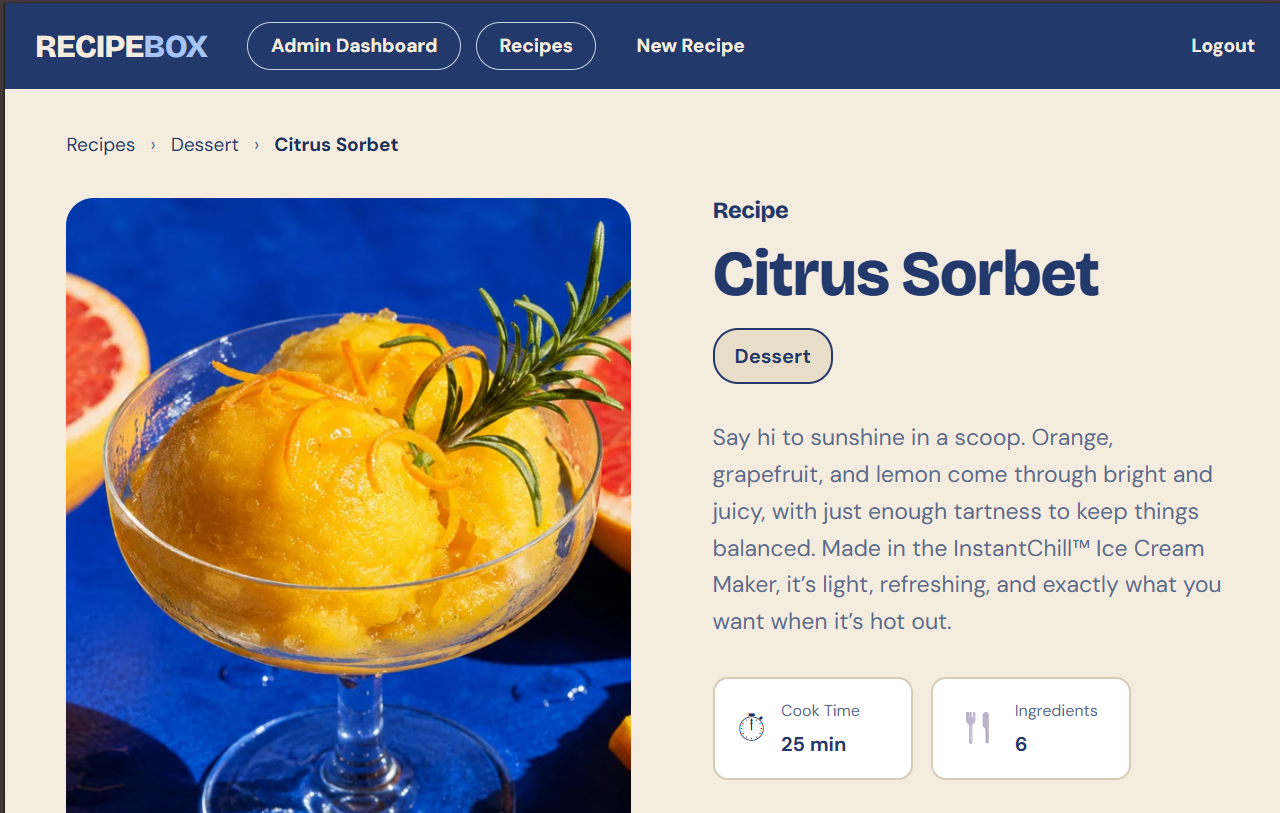
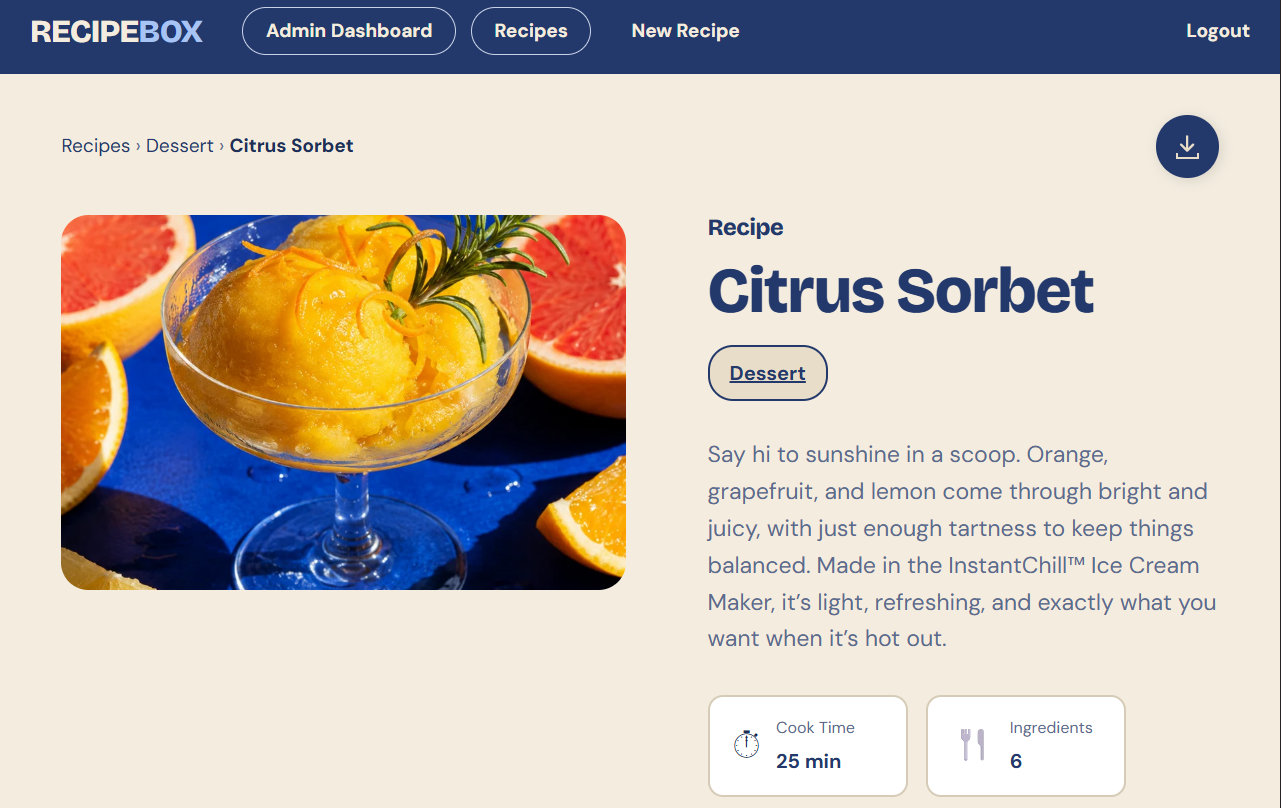
feat: add print button

diff --git a/public/css/style.css b/public/css/style.css
@@ -688,6 +688,7 @@ form[action="/recipe"] button[type="submit"] {
 
 .recipe-breadcrumb {
     display: flex;
+    justify-content: space-between;
     align-items: center;
     flex-wrap: wrap;
     gap: 12px;
@@ -1061,3 +1062,193 @@ form[action="/recipe"] button[type="submit"] {
     justify-content: center;
     padding-top: 3rem;
 }
+
+.Btn {
+  width: 50px;
+  height: 50px;
+  border: none;
+  border-radius: 50%;
+  background-color:var(--navy);
+  display: flex;
+  flex-direction: column;
+  align-items: center;
+  justify-content: center;
+  cursor: pointer;
+  position: relative;
+  transition-duration: .3s;
+  box-shadow: 2px 2px 10px rgba(0, 0, 0, 0.11);
+}
+
+.svgIcon {
+  fill:var(--butter)
+}
+
+.icon2 {
+  width: 18px;
+  height: 5px;
+  border-bottom: 2px solid var(--butter);
+  border-left: 2px solid var(--butter);
+  border-right: 2px solid var(--butter);
+}
+
+.tooltip {
+  position: absolute;
+  right: calc(100% + 12px);  opacity: 0;
+  background-color: rgb(12, 12, 12);
+  color: white;
+  padding: 5px 10px;
+  border-radius: 5px;
+  white-space: nowrap;  
+  display: flex;
+  align-items: center;
+  justify-content: center;
+  transition-duration: .2s;
+  pointer-events: none;
+  letter-spacing: 0.5px;
+}
+
+.tooltip::before {
+  position: absolute;
+  content: "";
+  width: 10px;
+  height: 10px;
+  background-color: rgb(12, 12, 12);
+  background-size: 1000%;
+  background-position: center;
+  transform: rotate(45deg);
+  right: -5%;
+  transition-duration: .3s;
+}
+.Btn:hover .tooltip {
+  opacity: 1;
+  transition-duration: .3s;
+}
+.Btn:hover {
+  background-color: var(--ink-soft);
+  transition-duration: .3s;
+}
+.Btn:hover .icon2 {
+  border-bottom: 2px solid rgb(235, 235, 235);
+  border-left: 2px solid rgb(235, 235, 235);
+  border-right: 2px solid rgb(235, 235, 235);
+}
+
+.Btn:hover .svgIcon {
+  fill: rgb(255, 255, 255);
+  animation: slide-in-top 0.6s cubic-bezier(0.250, 0.460, 0.450, 0.940) both;
+}
+
+@keyframes slide-in-top {
+  0% {
+    transform: translateY(-10px);
+    opacity: 0;
+  } 100% {
+    transform: translateY(0px);
+    opacity: 1;
+  }
+}
+
+/* ---------- PRINT ---------- */
+@media print {
+    nav, .comments-section,.home-footer,.Btn, .recipe-actions, .recipe-breadcrumb {
+        display: none !important;
+    }
+
+    body {
+        padding: 0;
+        background: #fff;
+    }
+
+    .recipe-details-page {
+        padding: 2px;
+    }
+
+    .recipe-info-box {
+        break-inside: avoid;
+    }
+
+    a {
+        color: inherit;
+        text-decoration: none;
+    }
+
+    @page {
+    margin: 10mm;
+    }
+
+    .recipe-details-page {
+        padding: 0;
+    }
+
+    .recipe-breadcrumb {
+        display: none;
+    }
+
+    .recipe-details {
+        grid-template-columns: 200px 1fr; 
+    }
+
+    .recipe-details-image {
+        height: 200px;
+    }
+
+    .recipe-details-info h1 {
+        font-size: 2rem;
+        margin-bottom: 8px;
+    }
+
+    .recipe-category-badge {
+        margin-bottom: 10px;
+    }
+
+    .recipe-short-description {
+        margin-bottom: 10px;
+        font-size: 0.95rem;
+    }
+
+    .recipe-info-row {
+        margin-bottom: 0;
+    }
+
+    .recipe-content {
+        margin-top: 20px;
+        gap: 16px;
+    }
+
+    .recipe-section {
+        padding: 14px;
+    }
+
+    .recipe-section h2 {
+        font-size: 1.3rem;
+        margin-bottom: 12px;
+    }
+
+    .ingredients-list {
+        gap: 6px;
+    }
+
+    .ingredient-item {
+        padding-bottom: 6px;
+        font-size: 0.85rem;
+    }
+
+    .recipe-steps {
+        font-size: 0.9rem;
+        line-height: 1.5;
+    }
+    .recipe-section {
+        break-inside: auto;
+    }
+
+    .recipe-content {
+        align-items: start;
+        margin-top: 12px;
+    }
+
+    body {
+        zoom: 0.8;
+    }
+}
+
+  .recipe-details-image { height: 300px; }
